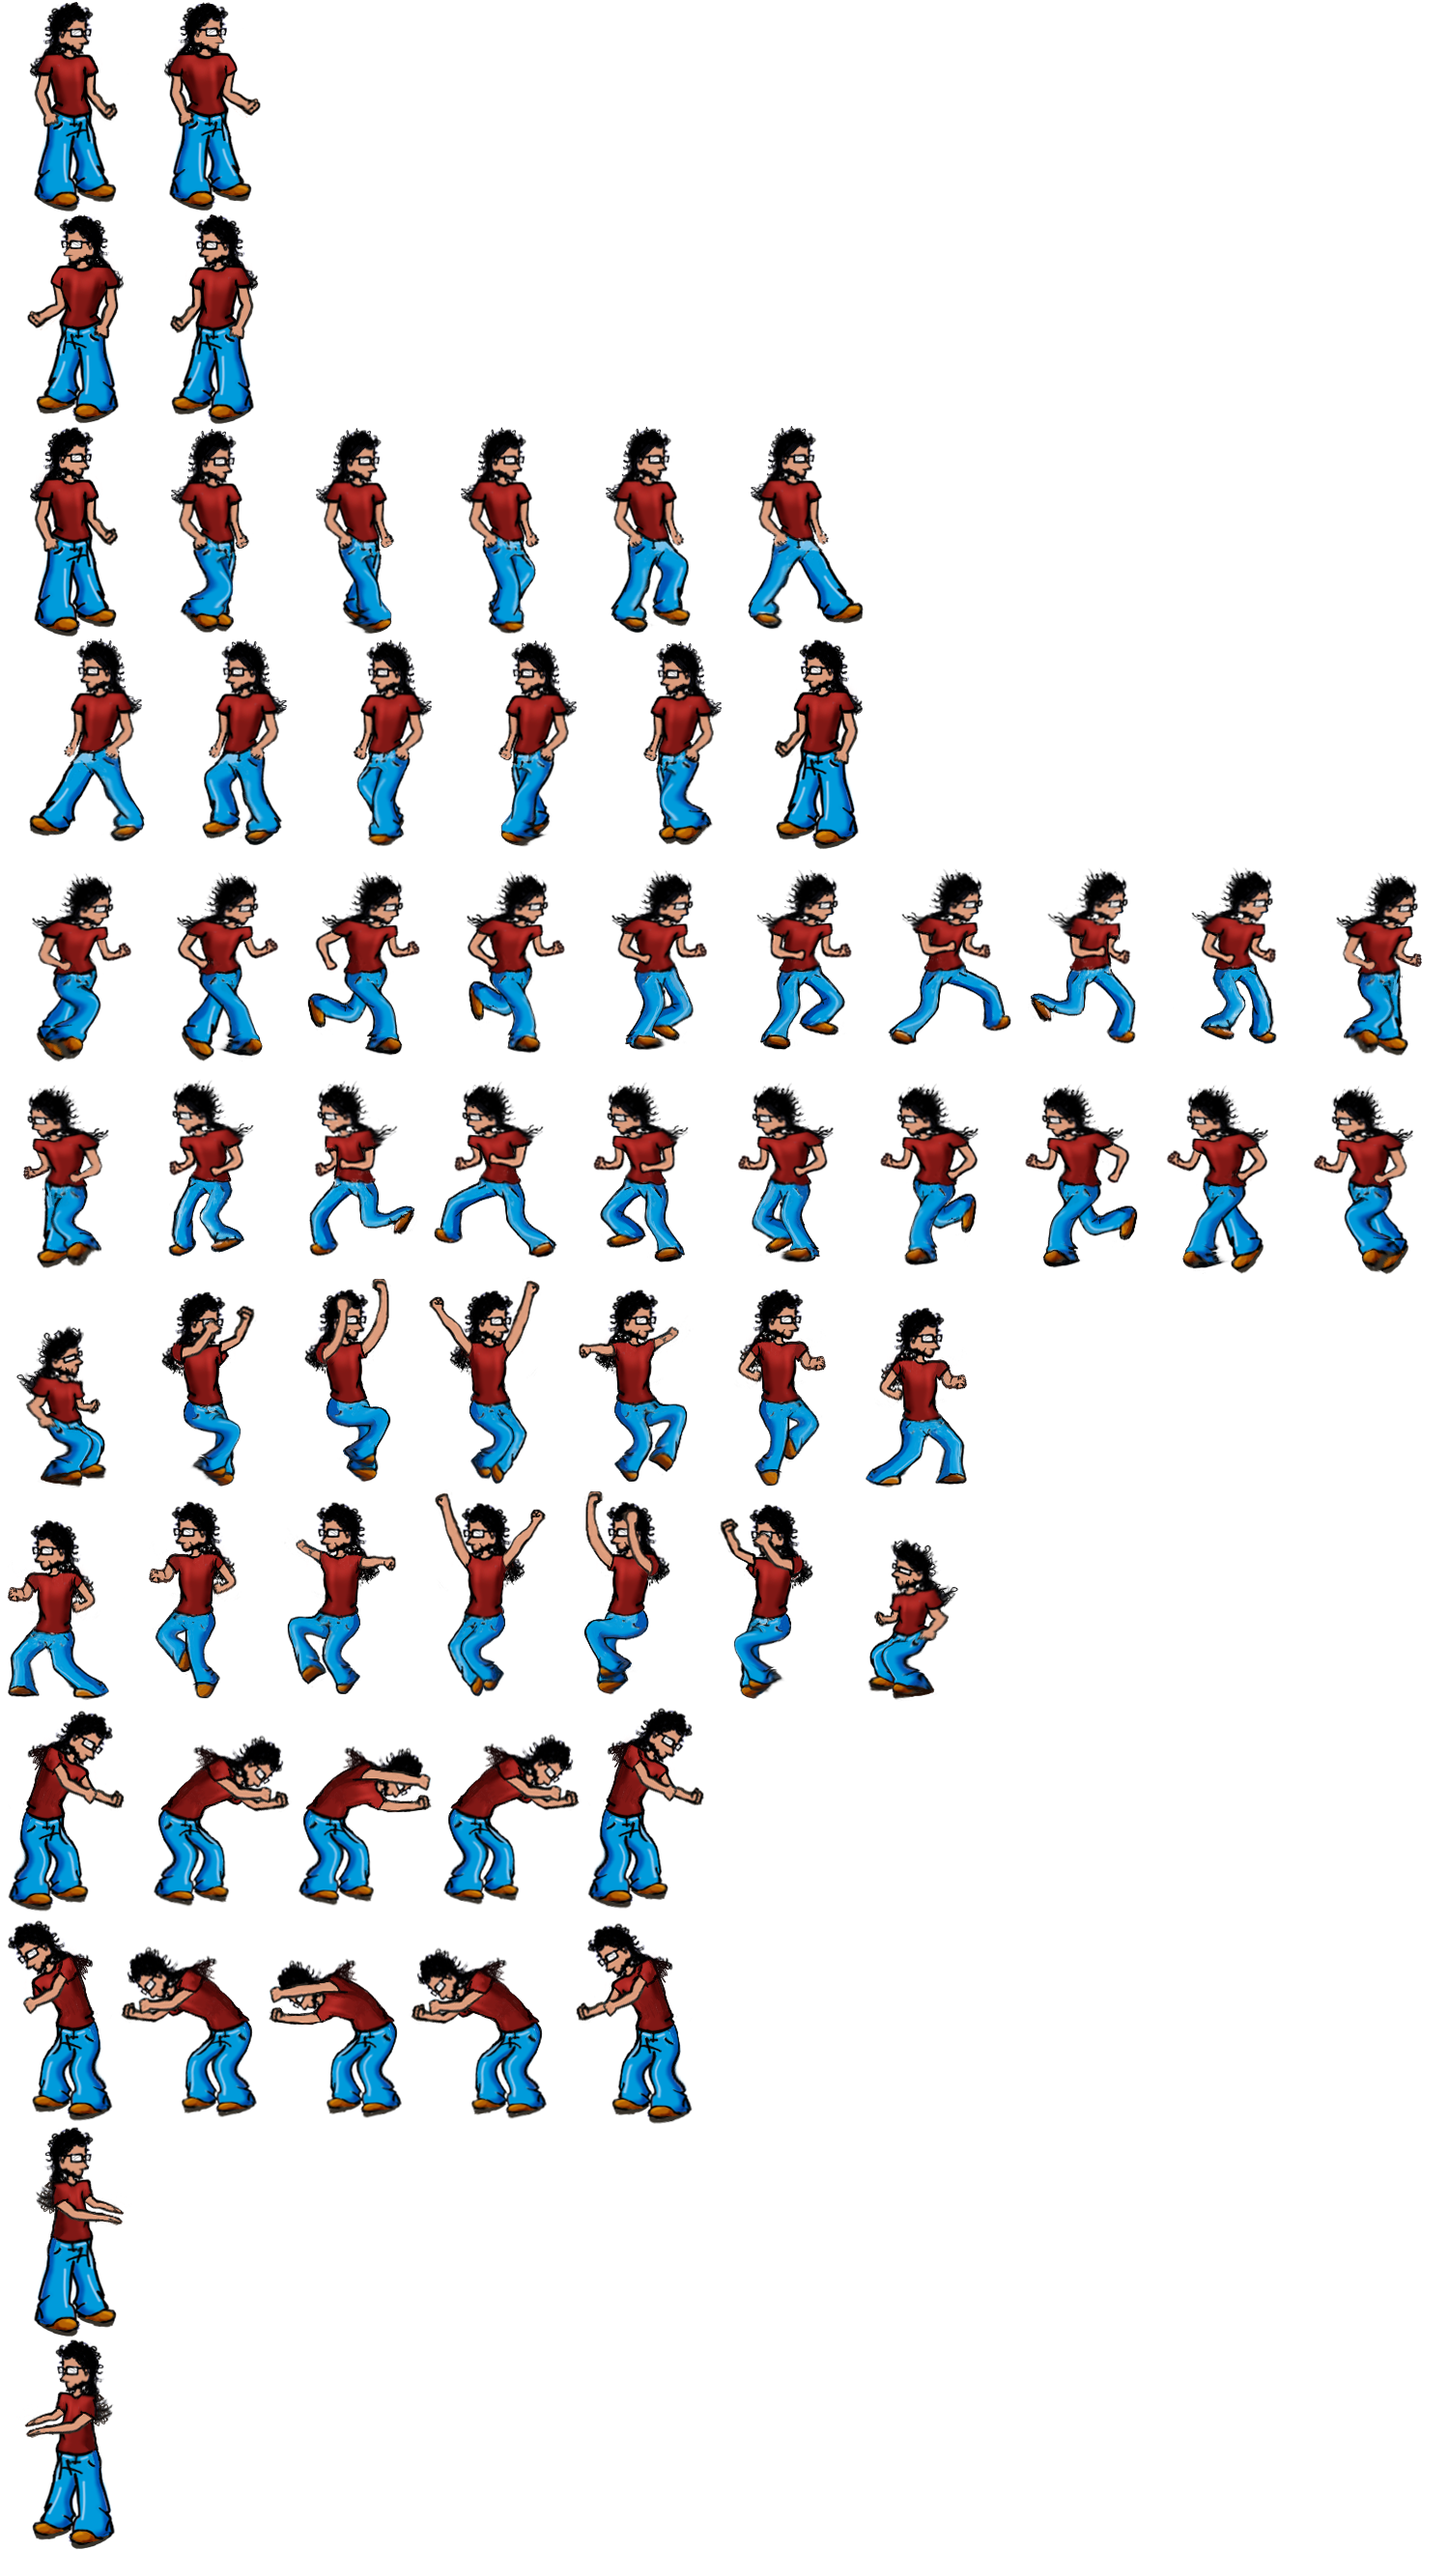
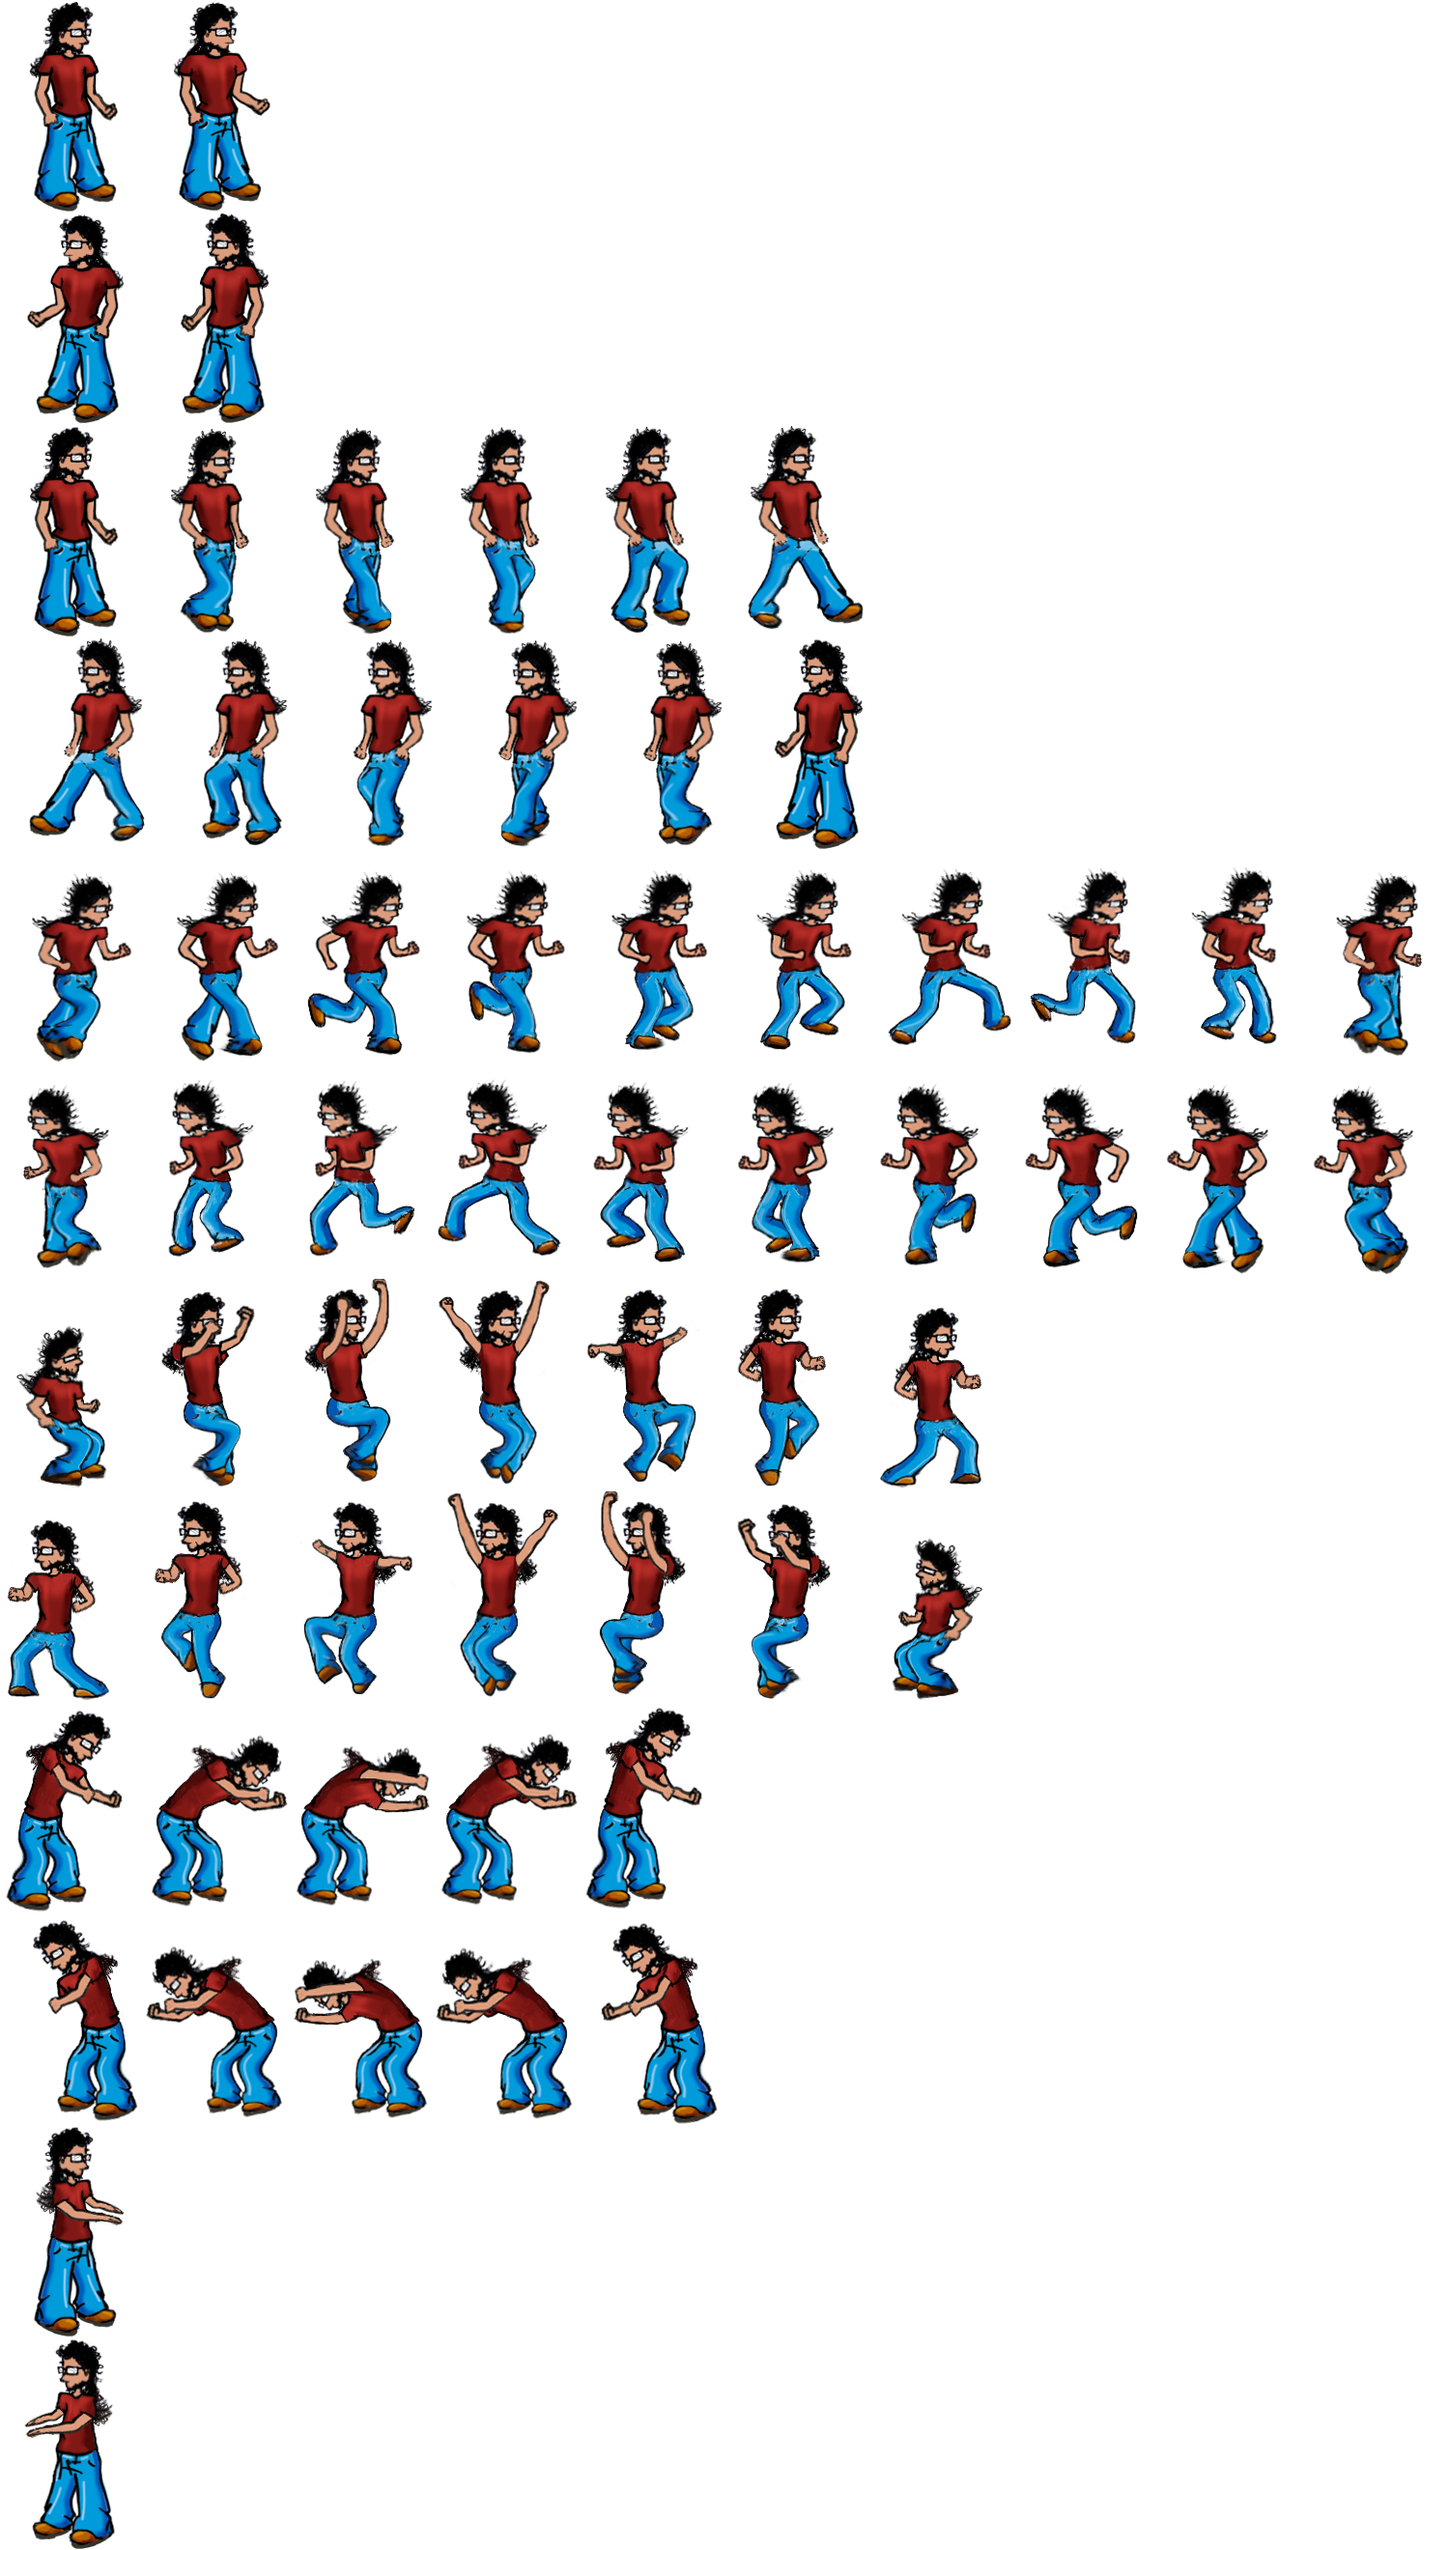
no wat idea wat i have done

Changed region(s): [[0.0, 0.4348, 0.6747, 0.8386], [0.1227, 0.0, 0.184, 0.1864]]

diff --git a/utils.cpp b/utils.cpp
@@ -21,8 +21,8 @@ const int PLAYER_JUMP_SPEED = 500;
 const float PLAYER_ANIMATION_TIMER[PState::qttLevel] = { 0.1, 0.1, 0.1, 0.1, 0.1, 0.1, 0.1};
 const int PLAYER_SPRINT_SPEED = 200;
 //                                           sho leg bod arm han hed wing
-const int PLAYER_SIZE_X[PState::qttLevel] = {100,100,  0,  0,250,150,  0};
-const int PLAYER_SIZE_Y[PState::qttLevel] = { 50,175,  0,  0,240,220,  0};
+const int PLAYER_SIZE_X[PState::qttLevel] = {100,100,  0,150,150,150,  0};
+const int PLAYER_SIZE_Y[PState::qttLevel] = { 50,175,  0,240,240,220,  0};
 
 //  idleRight, idleLeft, walkingRight, walkingLeft, runningRight, runningLeft, jumpingRight, jumpingLeft, pushingRight, pushingLeft
 // shoes
@@ -32,13 +32,15 @@ int SHOES_N[4] = {1,1,6,6};
 float LEGS_TIMER[8] = {0.3,0.3,0.3,0.3,0,0,0.2,0.2};
 int LEGS_N[8] = {6,6,6,6,0,0,7,7};
 // body
-const float BODY_TIMER[PState::qttState] = {};
+float BODY_TIMER[PState::qttState] = {};
 // arms
-const float ARMS_TIMER[PState::qttState] = {};
+float ARMS_TIMER[10] = {0.2, 0.2, 0.1, 0.1, 0.1, 0.1, 0.2, 0.2, 0.1, 0.1};
+int ARMS_N[10] = {6,6,6,6,10,10,7,7,5,5};
 // hands
-const float HANDS_TIMER[PState::qttState] = {};
+float HANDS_TIMER[10] = {0.2, 0.2, 0.1, 0.1, 0.1, 0.1, 0.2, 0.2, 0.1, 0.1};
+int HANDS_N[10] = {6,6,6,6,10,10,7,7,5,5};
 // head
-float HEAD_TIMER[PState::qttState] = {0.3, 0.3, 0.1, 0.1, 0.1, 0.1, 0.2, 0.2, 0.1};
+float HEAD_TIMER[PState::qttState] = {0.3, 0.3, 0.1, 0.1, 0.1, 0.1, 0.2, 0.2, 0.1, 0.1};
 int HEAD_N[PState::qttState] = {2,2,6,6,10,10,7,7,5,5};
 // wings
 const float WINGS_TIMER[PState::qttState] = {};

diff --git a/Player.cpp b/Player.cpp
@@ -10,10 +10,10 @@ Player::Player() {}
 Player::Player(GameManager *gm) /*: Collisionable(gm, &Resources::playerTexture, PLAYER_SIZE_X[PState::shoes], PLAYER_SIZE_Y[PState::shoes], 1, 1)*/:
     Collisionable(gm, &Resources::playerTexture, Resources::playerTexture.getSize().x/4, Resources::playerTexture.getSize().y/4, 4, 4) {
     direction = Dir::none;
-    level= PState::head;
+    level= PState::arms;
     spriteSource = sf::Vector2u(0,Dir::none);
     scont = 0;
-    sprite.setPosition(2600,800);
+    sprite.setPosition(2600,400);
     jumping = false;
     jumpTimer = 0;
     lastDir = Dir::none;
@@ -224,10 +224,21 @@ void Player::loadNewLevel(int level) {
         time_to_next_sprite = SHOES_TIMER;
         break;
     case PState::legs:
-        sprite.setTexture((Resources::playerLegs));
+        sprite.setTexture(Resources::playerLegs);
         nSprites = LEGS_N;
         time_to_next_sprite = LEGS_TIMER;
         sprite.setPosition(sprite.getPosition().x,sprite.getPosition().y-125);
+        break;
+    case PState::body:
+    case PState::arms:
+        sprite.setTexture(Resources::playerArms);
+        nSprites = ARMS_N;
+        time_to_next_sprite = ARMS_TIMER;
+        break;
+    case PState::hands:
+        sprite.setTexture(Resources::playerHands);
+        nSprites = HANDS_N;
+        time_to_next_sprite = HANDS_TIMER;
         break;
     case PState::head:
         sprite.setTexture(Resources::playerHead);

diff --git a/Resources.cpp b/Resources.cpp
@@ -24,6 +24,8 @@ sf::Texture     Resources::bodyPartTexture;
 
 sf::Texture     Resources::playerShoes;
 sf::Texture     Resources::playerLegs;
+sf::Texture     Resources::playerArms;
+sf::Texture     Resources::playerHands;
 sf::Texture     Resources::playerHead;
 
 sf::Texture Resources::shoesText;
@@ -47,6 +49,8 @@ void Resources::load() {
 
     if(!playerShoes.loadFromFile( "res/shoes.png")) std::cout << "unable to load playerShoes" << std::endl;
     if(!playerLegs.loadFromFile( "res/legs.png")) std::cout << "unable to load playerLegs" << std::endl;
+    if(!playerArms.loadFromFile( "res/arms.png")) std::cout << "unable to load playerArms" << std::endl;
+    if(!playerHands.loadFromFile("res/hands.png")) std::cout << "unable to load playerHands" << std::endl;
     if(!playerHead.loadFromFile( "res/head.png")) std::cout << "unable to load playerHead" << std::endl;
     
     if(!shoesText.loadFromFile( "res/theshoes.png")) std::cout << "unable to load peus" << std::endl;

diff --git a/utils.hpp b/utils.hpp
@@ -56,11 +56,13 @@ extern int SHOES_N[4];
 extern float LEGS_TIMER[8];
 extern int LEGS_N[8];
 // body
-extern const float BODY_TIMER[PState::qttState];
+extern float BODY_TIMER[PState::qttState];
 // arms
-extern const float ARMS_TIMER[PState::qttState];
+extern float ARMS_TIMER[10];
+extern int ARMS_N[10];
 // hands
-extern const float HANDS_TIMER[PState::qttState];
+extern float HANDS_TIMER[10];
+extern int HANDS_N[10];
 // head
 extern float HEAD_TIMER[PState::qttState];
 extern int HEAD_N[PState::qttState];

diff --git a/Resources.hpp b/Resources.hpp
@@ -16,6 +16,8 @@ public:
 
     static sf::Texture playerShoes;
     static sf::Texture playerLegs;
+    static sf::Texture playerArms;
+    static sf::Texture playerHands;
     static sf::Texture playerHead;
     
 static sf::Texture shoesText;
